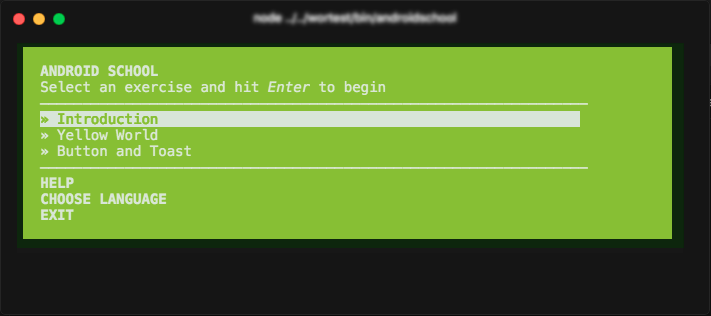
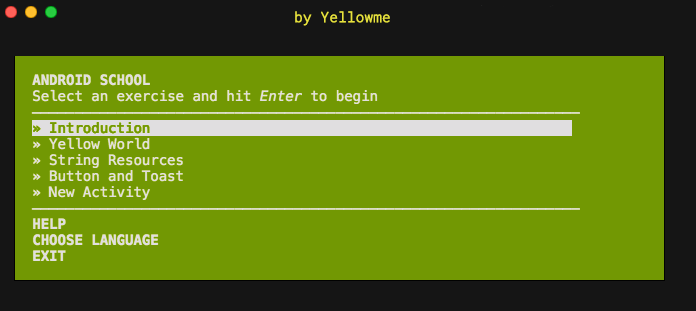
Readmes minor fixed and screenshot update

diff --git a/exercises/introduction/problem.es.md b/exercises/introduction/problem.es.md
@@ -25,9 +25,10 @@ En esta lección the mostraremos cómo abrir un proyecto android con android stu
     En este proyecto trabajaremos con el sdk 23, que es para android 6.0 en adelante.
     Si eres curioso acerca de cómo las diferentes versiones de SDK afectan a tu app, lee "Supporting Different Platform Versions" (https://goo.gl/dYHfzP).
 
-    Nota: Si tiene un mensaje para agregar algunos archivos a git, no lo haga, haga clic en cancelar, porque vamos a usar git
-    y puede causar algunos problemas. En caso de que el gradle quiera sincronizar, está bien, es para configurar algunos archivos, 
-    haga clic en sincronizar.
+    Nota: * Si tiene un mensaje para agregar algunos archivos a git, no lo haga, haga clic en cancelar, porque vamos a usar git
+            y puede causar algunos problemas. En caso de que el gradle quiera sincronizar, está bien, es para configurar algunos archivos, 
+            haga clic en sincronizar.
+          * Si tiene un error 'Failed to find Build tools revision', solo haz click en 'install build tools and sync project'
 
 2- Crea tu primera activity
     * Primero, asegurate de que la ventana Proyecto está abierta  (selecciona View > Tool Windows > Project).

diff --git a/exercises/introduction/problem.md b/exercises/introduction/problem.md
@@ -25,9 +25,10 @@ This lesson shows you how to open the Android project with Android Studio, how t
     In this project we're going to work with the sdk 23, which is for android 6.0 onwards.
     If you're curious about how the SDK versions affect your app, read Supporting Different Platform Versions (https://goo.gl/dYHfzP)
 
-    Note: If you have a message to add some files to git, don't do it, click cancel, because we are going to use git
-    And may cause some problems. In case the gradle wants to synchronize, it is okay, it is to configure some files,
-    Click Sync.
+    Note: * If you have a message to add some files to git, don't do it, click cancel, because we are going to use git
+            And may cause some problems. In case the gradle wants to synchronize, it is okay, it is to configure some files,
+            Click Sync.
+          * If there is an error to find Build Tools revision, just click in 'install Build Tools and sync project'
 
 2- Create your first activity
     * First, be sure the Project window is open (select View > Tool Windows > Project)

diff --git a/exercises/yellow_world/problem.es.md b/exercises/yellow_world/problem.es.md
@@ -27,7 +27,7 @@ Esta lección te muestra cómo agregar y modificar un textView(vista de texto) e
 
 4- En la pestaña 'Palette', busca los Widgets y arrastra un "Plain TextView" en la pantalla, en la parte que más te guste.
 
-5- En el lado izquierdo, puedes ver la pestaña 'properties'. Allí puedes editar todas las propiedades de tu elemento, por ejemplo, el
+5- En el lado derecho, puedes ver la pestaña 'properties'. Allí puedes editar todas las propiedades de tu elemento, por ejemplo, el
 El color de fondo, el id, el texto, y más.
 
 6- Cambia el textView 'id' a 'textViewUser'

diff --git a/exercises/yellow_world/problem.md b/exercises/yellow_world/problem.md
@@ -26,7 +26,7 @@ on the left side of Android Studio).
 
 4- In the 'Palette' tab look for the Widgets and drag a 'Plain TextView' in the screen, wherever you want.
 
-5- In the left side, you can see the 'properties' tab. There you can edit all the properties of your element, for example, the 
+5- In the right side, you can see the 'properties' tab. There you can edit all the properties of your element, for example, the 
 background color, the id, the text, and more.
 
 6- Change your textView 'id' to 'textViewUser'

diff --git a/exercises/button_and_toast/problem.md b/exercises/button_and_toast/problem.md
@@ -44,6 +44,8 @@ and once you have the instance of the toast, call the method 'show()'
 
 If you have everything correct in your method, you can run your app, and it should work fine.
 
+    Note: Is your duty to look at the internet how to accommodate the elements and avoid overlapping
+
 ----------------------------------------------------------------------
 To know more about what we did in here, you can check this links:
     [EditText](https://goo.gl/3JSnAR)

diff --git a/exercises/button_and_toast/problem.es.md b/exercises/button_and_toast/problem.es.md
@@ -43,6 +43,8 @@ Y una vez que tenga la instancia del toast, llame al método 'show ()' del toast
 
 Si tienes todo correcto, puedes ejecutar tu aplicación, y revisar si funciona como debe.
 
+    Nota: Es tu deber, buscar en internet cómo acomodar los elementos en la pantalla y evitar que se sobrepongan.
+
 --------------------------------------------------
 Para saber más sobre lo que se hizo, puedes consultar los siguientes enlaces:
 

diff --git a/README.md b/README.md
@@ -2,7 +2,7 @@
 
 **Beta version**
 
-**Only 3 exercises for now**
+**5 Exercises for now**
 
 [![JavaScript Style Guide](https://img.shields.io/badge/code_style-standard-brightgreen.svg)](https://standardjs.com)
 [![Gitter](https://badges.gitter.im/Join%20Chat.svg)](https://gitter.im/androidschoolbasics/Lobby)
